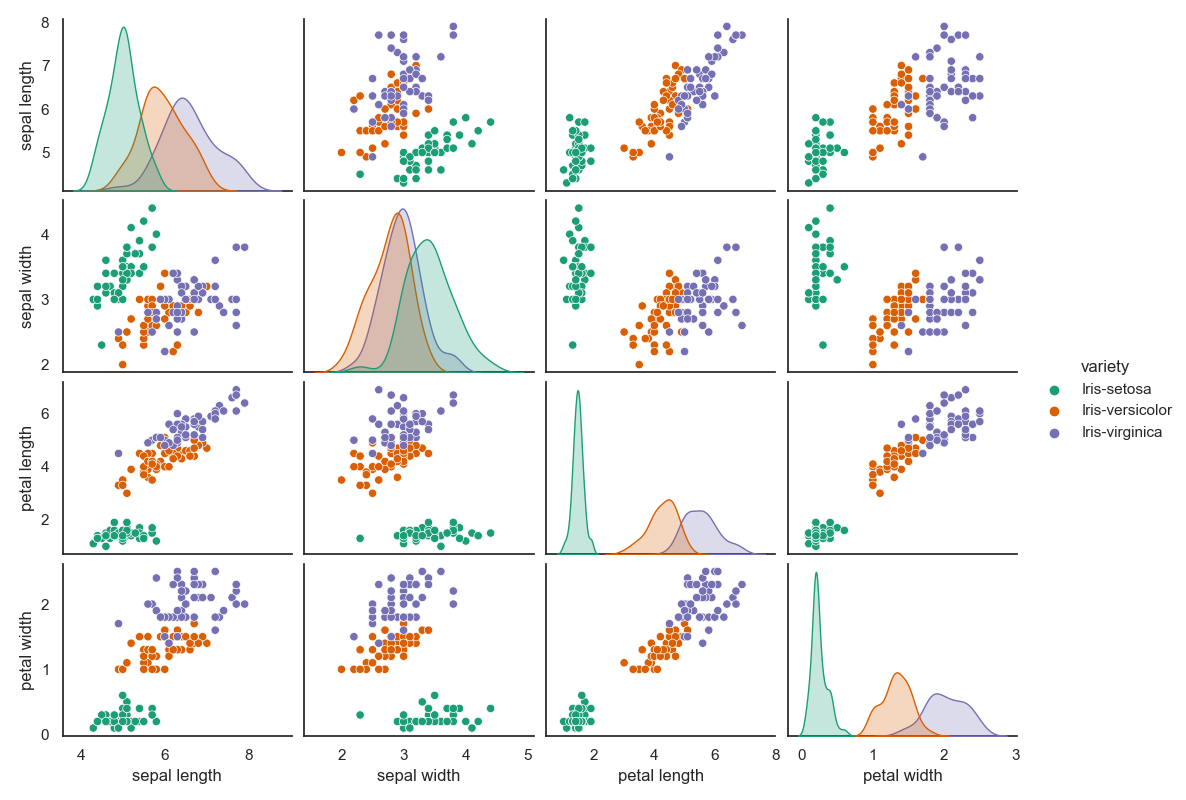
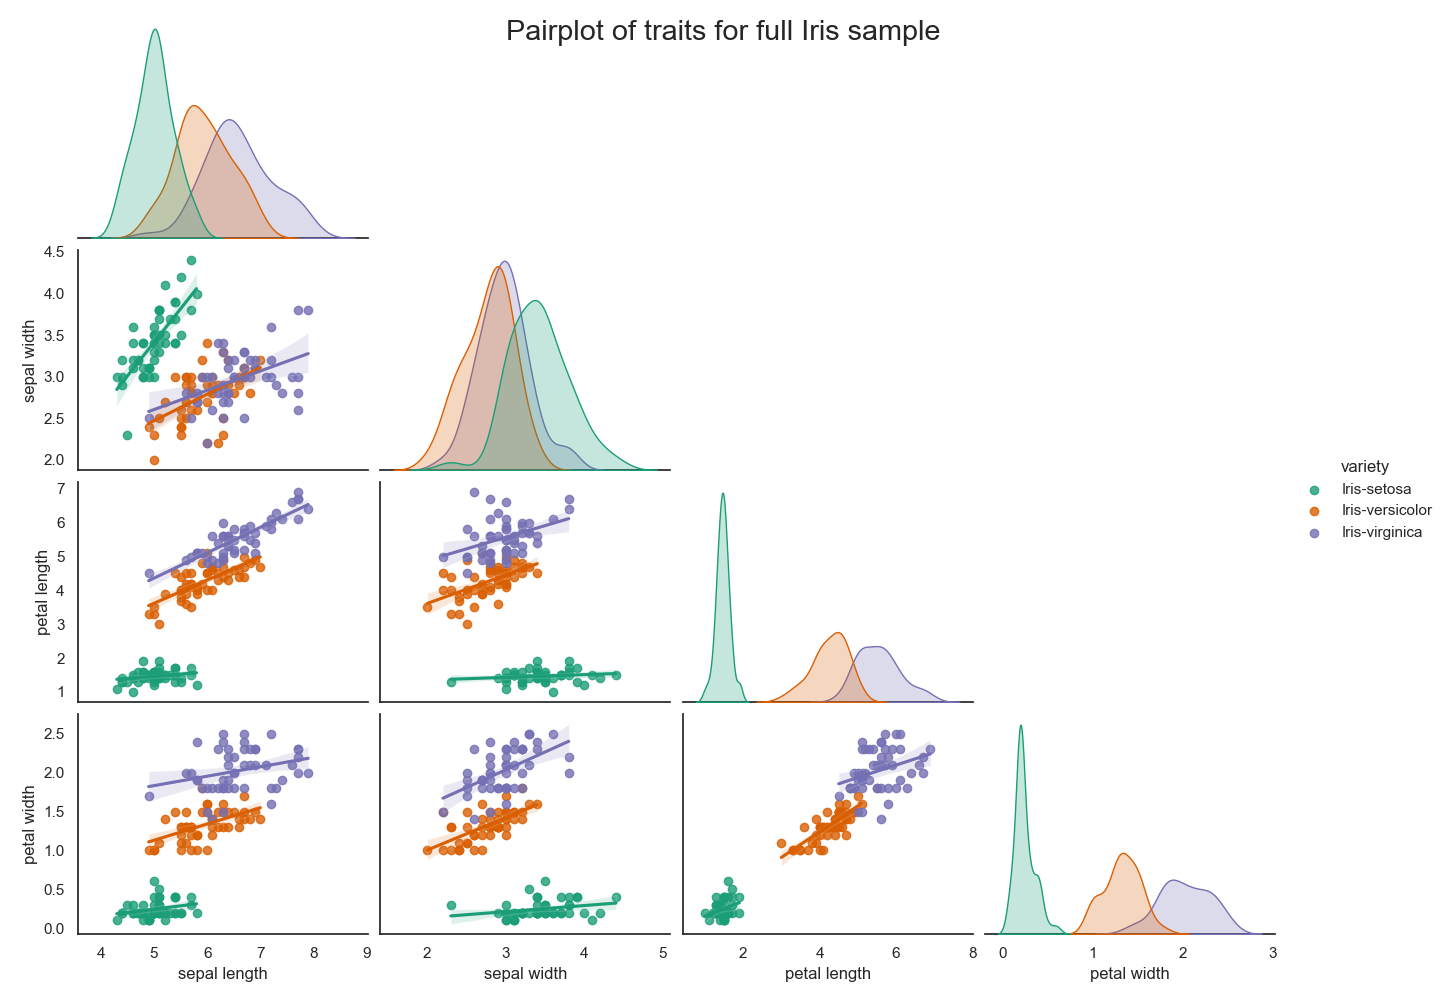
fixing pairplots and removing unwanted plots. enhancing appearance of plots. adding comments relating to plots

diff --git a/analysis.py b/analysis.py
@@ -113,7 +113,6 @@ summary_statistics()
 
 
 # The below section of this script generates the histograms for the project.
-
 # Reference: https://seaborn.pydata.org/tutorial/distributions.html?highlight=histogram
 # Reference: https://r02b.github.io/seaborn_palettes/ 
 
@@ -123,53 +122,58 @@ sepal_length = sns.displot(df, x ="sepal length", bins = 20, hue ="variety", pal
 plt.tight_layout()
 plt.savefig('sepal_length_varieties.png')
 
-
 sepal_width = sns.displot(df, x ="sepal width", bins = 20, hue ="variety", palette = "Set1_r", multiple = "stack").set(title = "Sepal width for each Iris variety", xlabel = "Sepal width in cm")
 plt.tight_layout()
 plt.savefig('sepal_width_varieties.png')
 
-
 petal_length = sns.displot(df, x ="petal length", bins = 20, hue ="variety", palette = "Set1_r", multiple = "stack").set(title = "Petal length for each Iris variety", xlabel = "Petal length in cm")
 plt.tight_layout()
 plt.savefig('petal_length_varieties.png')
-
 
 petal_width = sns.displot(df, x ="petal width", bins = 20, hue ="variety", palette = "Set1_r", multiple = "stack").set(title = "Petal width for each Iris variety", xlabel = "Petal width in cm")
 plt.tight_layout()
 plt.savefig('petal_width_varieties.png')
 
 
-# This section of my script relates to scatterplots. To capture the 6 different trait-pair combinations, I have used a pairplot.
-# I created a pairplot based on the data set as a whole which show the correlation between the 6 different pairs of traits
+# This section of my script relates to scatterplots. To capture the 6 different trait-pair combinations, I have used pairplots.
+# I created a pairplot based on the data set as a whole to show the correlation between the 6 different pairs of traits
 # within the whole sample, and also created three pairplots where each is based only on the data relating to a single Iris species.
+# The 'corner' arguement removes the top right corner of each pairplot. 
+# The 'kind' = reg arguement creates a regression plot, to give a sense of the strength of correlation between the variables.
+# For both the whole sample pairplot and the individual species ones, I experiemented with different sizes and colours; 
+# for the individual plots, this required passing in keyword arguments:
+# See reference: https://www.youtube.com/watch?v=-eyiVTLJuqI  around 11 mins.
+# I added a title using the fig.suptitle() method, including increasing the fontsize.
 
 
 sns.set(style = "white")
 
-sns.pairplot(df, hue = "variety", palette="Dark2", height=2, aspect=1.3)
+iris_pairplot = sns.pairplot(df, hue = "variety", palette="Dark2", height=2.5, aspect=1.3, corner=True, kind="reg")
+iris_pairplot.fig.suptitle("Pairplot of traits for full Iris sample", fontsize = "xx-large")
 plt.savefig('iris_pairplot.png')
 
 
 # The df.loc[] property allows us to create three 'sub-DataFrames' from the overall Dataframe, based on the condition 
 # that the entry in the 'variety' column equals one of the three varieties of Iris. I will then assign it to a variable 
-# and use that variable to create pairplots for each trait within each class of Iris flower. 
+# and use that variable to create pairplots for each variety of Iris flower. 
 # Reference: https://sparkbyexamples.com/pandas/pandas-dataframe-loc/
 
 setosa = df.loc[df['variety']=="Iris-setosa"]
 versicolor = df.loc[df['variety']=="Iris-versicolor"]
 virginica = df.loc[df['variety']=="Iris-virginica"]
 
-#sns.pairplot(df, vars=["sepal width", "sepal length"])
-#plt.savefig("sepal_pairplot.png")
-
-sns.pairplot(setosa, height= 2, aspect=1.3)
+setosa_pairplot = sns.pairplot(setosa, diag_kws = dict(color='grey'), plot_kws = dict(color = 'brown'), height=3, aspect=1, corner=True, kind = "reg")
+setosa_pairplot.fig.suptitle("Pairplot of setosa traits", fontsize = "xx-large")
 plt.savefig('setosa_pairplot.png')
 
-sns.pairplot(versicolor, height=2, aspect=1.3)
+versicolor_pairplot = sns.pairplot(versicolor, diag_kws=dict(color='grey'), plot_kws=dict(color = 'orange'),  height=3, aspect=1, corner=True, kind = "reg")
+versicolor_pairplot.fig.suptitle("Pairplot of versicolor traits", fontsize = "xx-large")
 plt.savefig('versicolor_pairplot.png')
 
-sns.pairplot(virginica, height=2, aspect=1.3)
+virginica_pairplot = sns.pairplot(virginica, diag_kws=dict(color='grey'), plot_kws=dict(color = 'green'), height=3, aspect=1, corner=True, kind ="reg")
+virginica_pairplot.fig.suptitle("Pairplot of virginica traits", fontsize = "xx-large")
 plt.savefig('virginica_pairplot.png')
+
 
 
 # boxplots:
